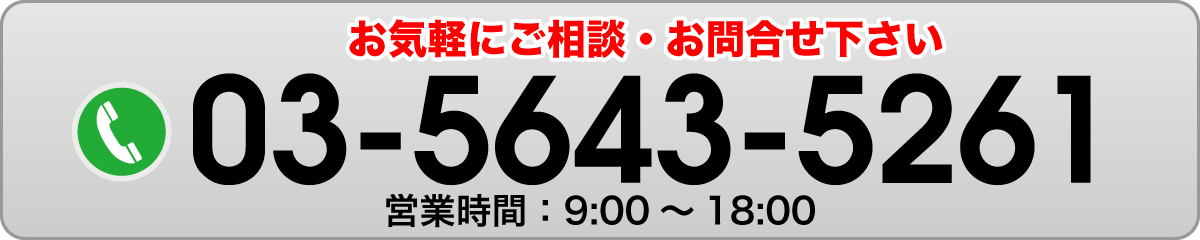
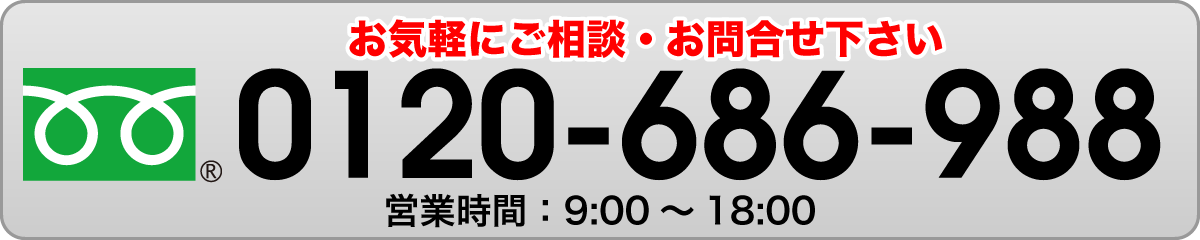
[FIX]電話番号など修正

Changed region(s): [[0.0, 0.2625, 0.9867, 0.7875]]

diff --git a/index.html b/index.html
@@ -63,7 +63,7 @@
 						
 					</div>
 					<div class="topTelwrap">
-					<p class="topTelno">03-5643-5261</p>
+					<p class="topTelno">0120-686-988</p>
 						<div class="topTelicon retina"><img src="images/pc_tel.png" width="30" height="30" alt=""/></div>
 						
 					</div>
@@ -86,7 +86,7 @@
 					<span class="icon-bar"></span>
 					<span class="icon-bar"></span>
 					</button>
-					<div class="smTelwrap"><img src="images/sm_tel.png" alt="0356435261" width="34" height="34" class="tel-link img-responsive" title="電話をかける"/></div>
+					<div class="smTelwrap"><img src="images/sm_tel.png" alt="0120686988" width="34" height="34" class="tel-link img-responsive" title="電話をかける"/></div>
 					<a href="index.html" class="navbar-brand"><img src="images/logo.png" alt="株式会社アットマネジメントJAPAN" width="130" height="34" class="img-responsive retina"/></a>
 				</div>
 
@@ -305,8 +305,8 @@
   </div>
 <div class="container">
 <div class="col-md-8 col-md-offset-2 text-center space10">
-	<h2 class="oomidashi midashiTexteffect"><blockquote>メリット</blockquote></h2>
-	<p class="readTextcolor">ファクタリングをご利用するにあたり様々なメリットが御座います。ファクタリングをご利用するにあたり様々なメリットが御座います。ファクタリングをご利用するにあたり様々なメリットが御座います。</p>
+	<h2 class="oomidashi midashiTexteffect"><span class="inyouRed"></span>メリット</h2>
+	<p class="readTextcolor">ファクタリングをご利用するにあたり様々なメリットが御座います。</p>
 	</div>
 	<div class="row">
 		<div class="col-md-3 col-xs-12 space20">
@@ -503,8 +503,8 @@
 		<section class="sectionSpace topMargin50" id="flow">
 			<div class="container">
 			<div class="col-md-8 col-md-offset-2 text-center space10">
-				<h2 class="uppercase oomidashi"><blockquote>お申し込みからご契約までの流れ</blockquote></h2>
-				<p class="readTextcolor">ファクタリングをご利用するにあたり様々なメリットが御座います。ファクタリングをご利用するにあたり様々なメリットが御座います。ファクタリングをご利用するにあたり様々なメリットが御座います。</p>
+				<h2 class="uppercase oomidashi"><span class="inyouRed"></span>お申し込みからご契約までの流れ</h2>
+				<p class="readTextcolor">ファクタリングをご利用するにあたり様々なメリットが御座います。</p>
 			</div>
 			
 			<div class="row">
@@ -522,7 +522,7 @@
 
 		<section id="qa">
 <div class="container">
-<h2 class="uppercase oomidashi"><blockquote>よくある質問</blockquote></h2>
+<h2 class="uppercase oomidashi"><span class="inyouRed"></span>よくある質問</h2>
 			<div class="panel-group" id="accordion-alt1">
 				<div class="panel faq-acc1">
 					<!-- Panel heading -->
@@ -610,7 +610,7 @@
 <section class="sectionSpace" id="tel2">
 	<div class="row">
 		<div class="container">
-			<div class=" col-lg-12"><img src="images/tel.png" alt="0356435261" width="1200" height="240" class="tel-link img-responsive" title="電話をかける"/></div>
+			<div class=" col-lg-12"><img src="images/tel.png" alt="0120686988" width="1200" height="240" class="tel-link img-responsive" title="電話をかける"/></div>
 		</div>
 	</div>
 </section>
@@ -764,14 +764,13 @@
 					<h4 class="space30">Contact</h4>
 			  <ul class="c-info">
 						<li><i class="fa fa-map-marker"></i>
-						〒103-0024<br>
-東京中央区日本橋小舟町15-17 日本橋協栄ビル
+						〒103-0013<br>
+東京都中央区日本橋人形町3丁目7番14号3F
 						</li>
 						<li>
 						</li>
 						<li><i class="fa fa-phone"></i> 
-      <p>tel.03-5643-5261<br>
-fax.03-5643-5261</p></li>
+      <p>フリーダイヤル：0120-686-988</p></li>
 						<li><i class="fa fa-envelope-o"></i> info@atmanagement-japan.com</li>
 						<!--<li><i class="fa fa-skype"></i> myskypeid</li>-->
 					</ul>

diff --git a/css/index-customize.css b/css/index-customize.css
@@ -433,3 +433,10 @@ body > div > footer > div > div > div:nth-child(3) > h4 {
     margin-right:-20px;
 
     }
+
+.inyouRed {
+	/* [disabled]padding: 10px 20px; */
+	font-size: 40px;
+	border-left: 5px solid #FF0000;
+	margin-right: 5px;
+}
